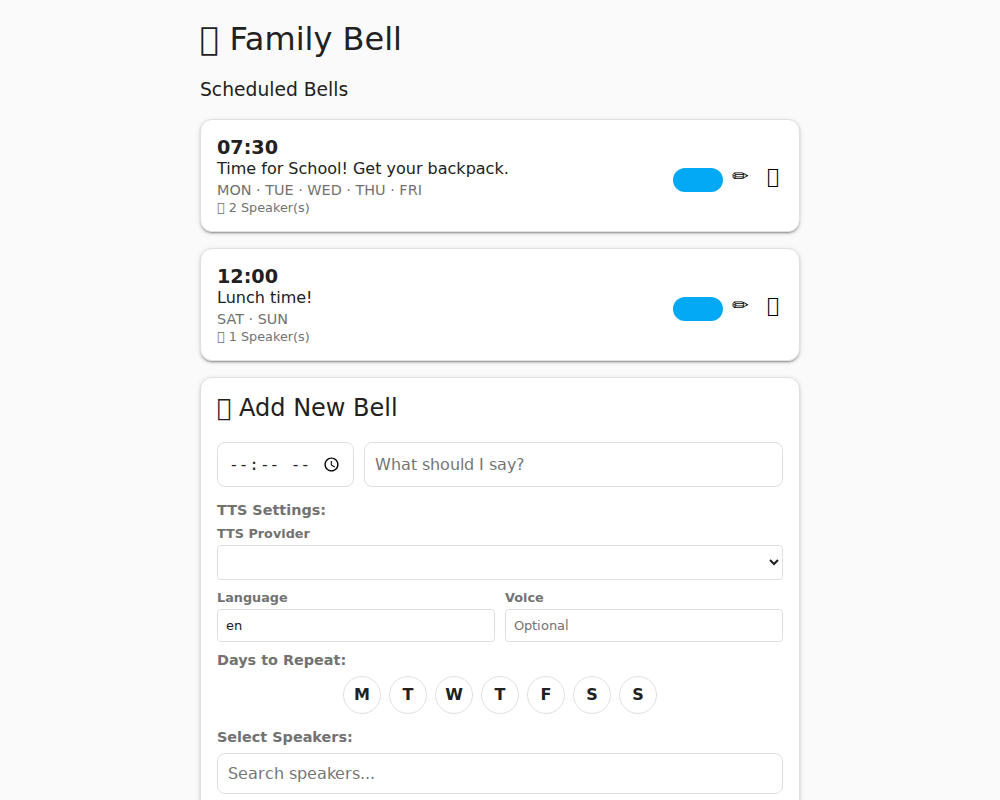
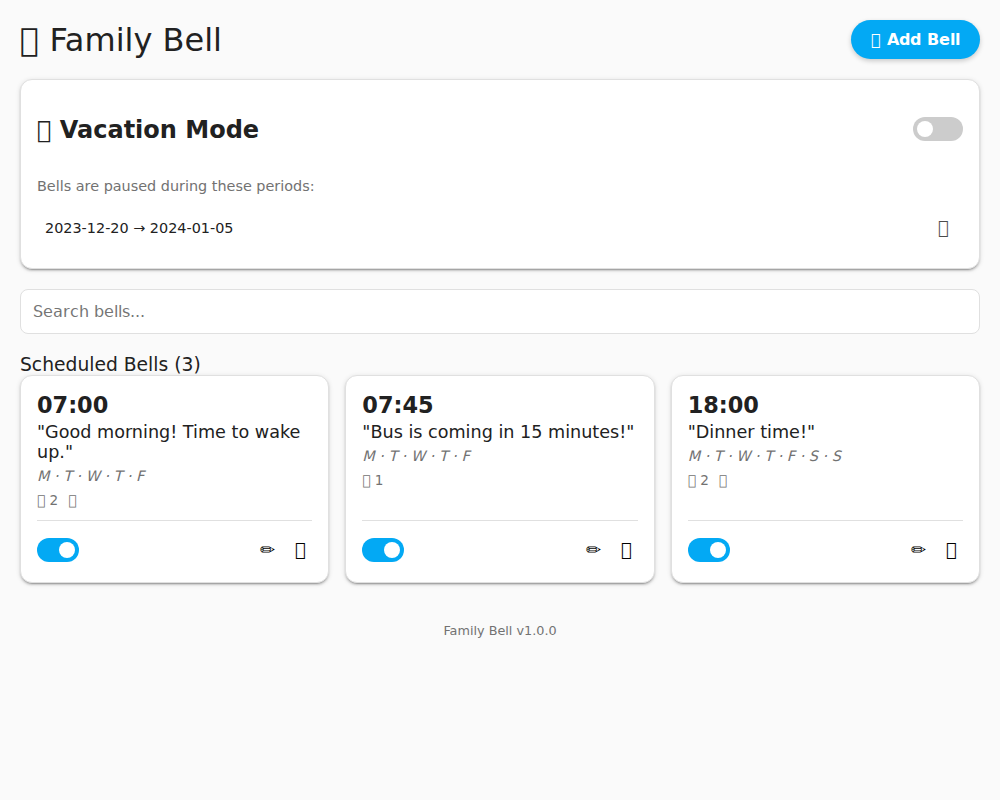
chore(ci): automated screenshots, doc updates, and offline support
- Added .github/workflows/update-screenshot.yaml
- Added tests/screenshot_harness.html and tests/take_screenshot.py
- Updated README.md with features and HACS badge
- Refactored frontend imports to use local lit-element.js

diff --git a/tests/screenshot_harness.html b/tests/screenshot_harness.html
@@ -1,0 +1,106 @@
+<!DOCTYPE html>
+<html>
+<head>
+    <meta charset="utf-8">
+    <title>Family Bell Screenshot Harness</title>
+    <style>
+        body { margin: 0; background-color: var(--primary-background-color, #fafafa); font-family: Roboto, sans-serif; }
+        /* Mock HA Theme variables */
+        :root {
+            --primary-color: #03a9f4;
+            --text-primary-color: #ffffff;
+            --primary-background-color: #fafafa;
+            --secondary-background-color: #ffffff;
+            --primary-text-color: #212121;
+            --secondary-text-color: #727272;
+            --divider-color: #e0e0e0;
+            --card-background-color: #ffffff;
+            --paper-font-body1_-_font-family: Roboto, sans-serif;
+            --ha-card-box-shadow: 0 2px 2px 0 rgba(0,0,0,0.14), 0 1px 5px 0 rgba(0,0,0,0.12), 0 3px 1px -2px rgba(0,0,0,0.2);
+        }
+    </style>
+</head>
+<body>
+    <family-bell id="panel"></family-bell>
+
+    <script type="module">
+        import { FamilyBellPanel } from "../custom_components/family_bell/www/family_bell_panel.js";
+
+        const panel = document.getElementById('panel');
+
+        // Mock Hass Object
+        const mockHass = {
+            language: 'en',
+            locale: { language: 'en' },
+            callWS: (msg) => {
+                console.log("Mock CallWS", msg);
+                if (msg.type === 'family_bell/get_data') {
+                    return Promise.resolve({
+                        bells: [
+                            {
+                                id: '1',
+                                time: '07:00',
+                                message: 'Good morning! Time to wake up.',
+                                days: ['mon', 'tue', 'wed', 'thu', 'fri'],
+                                speakers: ['media_player.kitchen', 'media_player.kids_room'],
+                                tts_provider: 'cloud',
+                                tts_voice: 'en-US-Standard-C',
+                                tts_language: 'en-US',
+                                sound: null,
+                                enabled: true
+                            },
+                             {
+                                id: '2',
+                                time: '07:45',
+                                message: 'Bus is coming in 15 minutes!',
+                                days: ['mon', 'tue', 'wed', 'thu', 'fri'],
+                                speakers: ['media_player.kitchen'],
+                                tts_provider: null,
+                                tts_voice: null,
+                                tts_language: null,
+                                sound: null,
+                                enabled: true
+                            },
+                            {
+                                id: '3',
+                                time: '18:00',
+                                message: 'Dinner time!',
+                                days: ['mon', 'tue', 'wed', 'thu', 'fri', 'sat', 'sun'],
+                                speakers: ['media_player.kitchen', 'media_player.living_room'],
+                                tts_provider: null,
+                                tts_voice: null,
+                                tts_language: null,
+                                sound: 'media-source://radio_browser/uuid',
+                                enabled: true
+                            }
+                        ],
+                        vacation: {
+                            enabled: false,
+                            ranges: [
+                                { start: '2023-12-20', end: '2024-01-05' }
+                            ]
+                        },
+                        version: '1.0.0',
+                        global_tts: { provider: 'cloud', voice: 'en-US-Standard-A', language: 'en-US' },
+                        last_defaults: null
+                    });
+                }
+                 if (msg.type === 'tts/voices') {
+                    return Promise.resolve({
+                        voices: []
+                    });
+                 }
+                return Promise.resolve({});
+            },
+            states: {
+                "media_player.kitchen": { attributes: { friendly_name: "Kitchen Speaker" } },
+                "media_player.bedroom": { attributes: { friendly_name: "Bedroom Speaker" } },
+                "media_player.kids_room": { attributes: { friendly_name: "Kids Room" } },
+                "media_player.living_room": { attributes: { friendly_name: "Living Room" } }
+            }
+        };
+
+        panel.hass = mockHass;
+    </script>
+</body>
+</html>

diff --git a/custom_components/family_bell/www/src/vacation-card.js b/custom_components/family_bell/www/src/vacation-card.js
@@ -2,7 +2,7 @@ import {
   LitElement,
   html,
   css,
-} from "https://unpkg.com/lit-element@2.4.0/lit-element.js?module";
+} from "../lit-element.js";
 import { localize } from "./localize.js";
 
 class VacationCard extends LitElement {

diff --git a/custom_components/family_bell/www/src/bell-card.js b/custom_components/family_bell/www/src/bell-card.js
@@ -2,7 +2,7 @@ import {
   LitElement,
   html,
   css,
-} from "https://unpkg.com/lit-element@2.4.0/lit-element.js?module";
+} from "../lit-element.js";
 import { localize } from "./localize.js";
 
 class BellCard extends LitElement {

diff --git a/custom_components/family_bell/www/src/bell-form.js b/custom_components/family_bell/www/src/bell-form.js
@@ -2,7 +2,7 @@ import {
   LitElement,
   html,
   css,
-} from "https://unpkg.com/lit-element@2.4.0/lit-element.js?module";
+} from "../lit-element.js";
 import { localize } from "./localize.js";
 import "../bell-tts-selector.js";
 

diff --git a/tests/take_screenshot.py b/tests/take_screenshot.py
@@ -1,0 +1,72 @@
+import os
+import sys
+import time
+import threading
+import http.server
+import socketserver
+from playwright.sync_api import sync_playwright
+
+PORT = 8000
+DIRECTORY = "."
+
+class Handler(http.server.SimpleHTTPRequestHandler):
+    def __init__(self, *args, **kwargs):
+        super().__init__(*args, directory=DIRECTORY, **kwargs)
+
+def start_server():
+    # Allow reuse address to avoid port conflict if ran quickly again
+    socketserver.TCPServer.allow_reuse_address = True
+    with socketserver.TCPServer(("", PORT), Handler) as httpd:
+        print(f"Serving at port {PORT}")
+        httpd.serve_forever()
+
+def take_screenshot():
+    with sync_playwright() as p:
+        browser = p.chromium.launch()
+        # Set viewport to something reasonable for a desktop screenshot
+        page = browser.new_page(viewport={"width": 1000, "height": 800})
+
+        url = f"http://localhost:{PORT}/tests/screenshot_harness.html"
+        print(f"Navigating to {url}")
+        page.goto(url)
+
+        try:
+            # Wait for the header to appear (inside shadow DOM)
+            page.wait_for_selector("family-bell >> h1", timeout=10000)
+
+            # Wait for bells to populate. We look for the bell-grid.
+            page.wait_for_selector("family-bell >> .bell-grid bell-card", timeout=5000)
+
+            # Additional small sleep to ensure fonts/icons load or layout settles
+            time.sleep(0.5)
+
+            # Select the container or the host element.
+            # If we screenshot the host, we get the background color of body if not set on host.
+            # The host styles in family_bell_panel.js set background-color and min-height.
+            element = page.locator("family-bell")
+
+            os.makedirs("images", exist_ok=True)
+            element.screenshot(path="images/screenshot.png")
+            print("Screenshot saved to images/screenshot.png")
+
+        except Exception as e:
+            print(f"Error taking screenshot: {e}")
+            # Dump html for debugging if needed
+            # print(page.content())
+            sys.exit(1)
+        finally:
+            browser.close()
+
+if __name__ == "__main__":
+    # Start server in background thread
+    server_thread = threading.Thread(target=start_server, daemon=True)
+    server_thread.start()
+
+    # Give server a moment to start
+    time.sleep(2)
+
+    try:
+        take_screenshot()
+    except Exception as e:
+        print(e)
+        sys.exit(1)

diff --git a/README.md b/README.md
@@ -3,6 +3,7 @@
 [![hacs_badge](https://img.shields.io/badge/HACS-Custom-41BDF5.svg)](https://my.home-assistant.io/redirect/hacs_repository/?owner=brewmarsh&repository=family-bell&category=integration)
 [![GitHub Release](https://img.shields.io/github/release/brewmarsh/family-bell.svg)](https://github.com/brewmarsh/family-bell/releases)
 [![License](https://img.shields.io/github/license/brewmarsh/family-bell.svg)](LICENSE)
+[![Open your Home Assistant instance and open a repository inside the Home Assistant Community Store.](https://my.home-assistant.io/badges/hacs_repository.svg)](https://my.home-assistant.io/redirect/hacs_repository/?owner=brewmarsh&repository=family-bell&category=integration)
 
 **Family Bell** is a custom integration that brings the functionality of Google's "Family Bell" directly into Home Assistant. It allows you to schedule recurring announcements on your smart speakers without relying on cloud schedules or specific hardware ecosystems.
 
@@ -23,11 +24,17 @@ For full documentation, please visit [our documentation site](https://brewmarsh.
 ## Key Features ✨
 
 *   **📅 Custom Schedules:** Create recurring bells (e.g., "School Starts", "Lunch Time") on specific days of the week.
-*   **📢 Multi-Speaker Support:** Targeted announcements to specific media players (Sonos, Google Cast, Alexa via Nabu Casa, etc.). Includes a search filter for easy selection.
-*   **🌴 Vacation Mode:** Easily pause all bells during specific date ranges (Spring Break, Holidays) without deleting them.
-*   **🗣 Flexible TTS:** Works with **any** Text-to-Speech engine configured in Home Assistant. Configure global defaults or **override settings per-bell** (Provider, Voice, Language).
-*   **🧪 Instant Testing:** Test any configuration immediately with a "Test" button before saving.
-*   **💻 Native UI Panel:** Includes a dedicated sidebar panel for easy management—no YAML editing required!
+*   **📢 Multi-Speaker Support:** Targeted announcements to specific media players (Sonos, Google Cast, Alexa via Nabu Casa, etc.) with search filtering.
+*   **🎵 Pre-announcement Sounds:** Play a chime or sound file before the TTS message.
+*   **🌴 Vacation Mode:** Easily pause all bells during specific date ranges (Spring Break, Holidays).
+*   **🗣 Advanced TTS:** Works with **any** Home Assistant TTS engine. Configure global defaults or **override per-bell** (Provider, Voice, Language).
+*   **🧪 Instant Testing:** Test any configuration immediately with a "Test" button.
+*   **🌍 Localized UI:** Available in English, Spanish, and French.
+*   **💻 Native UI Panel:**
+    *   Dedicated sidebar panel (no YAML!).
+    *   Responsive grid layout.
+    *   Search filter to find bells quickly.
+    *   Optimistic updates for a snappy experience.
 
 ## Installation 🛠
 
